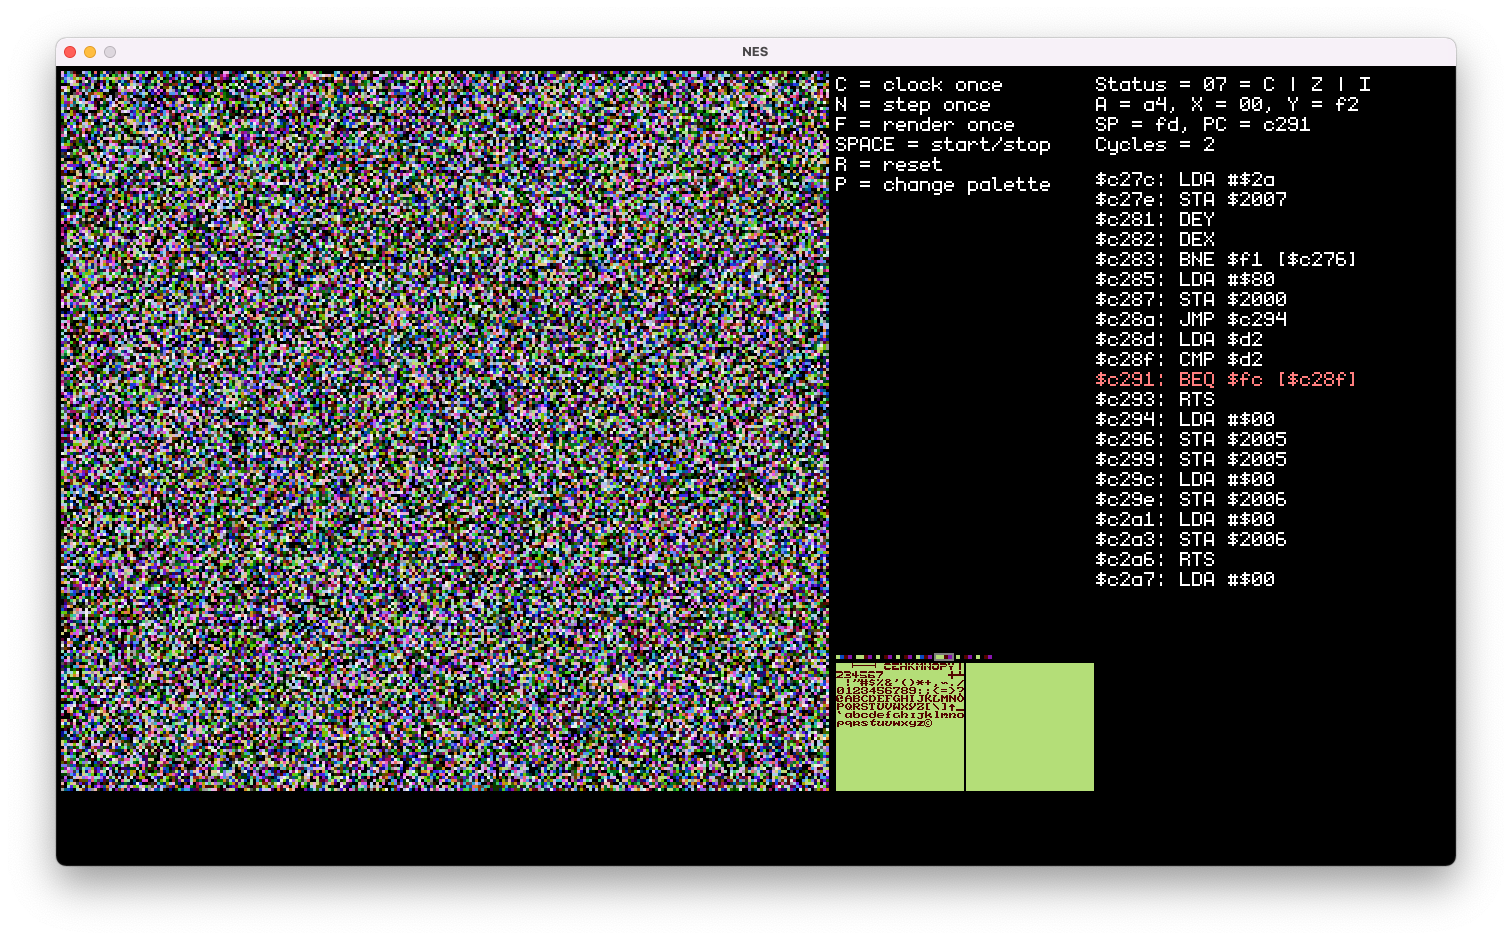
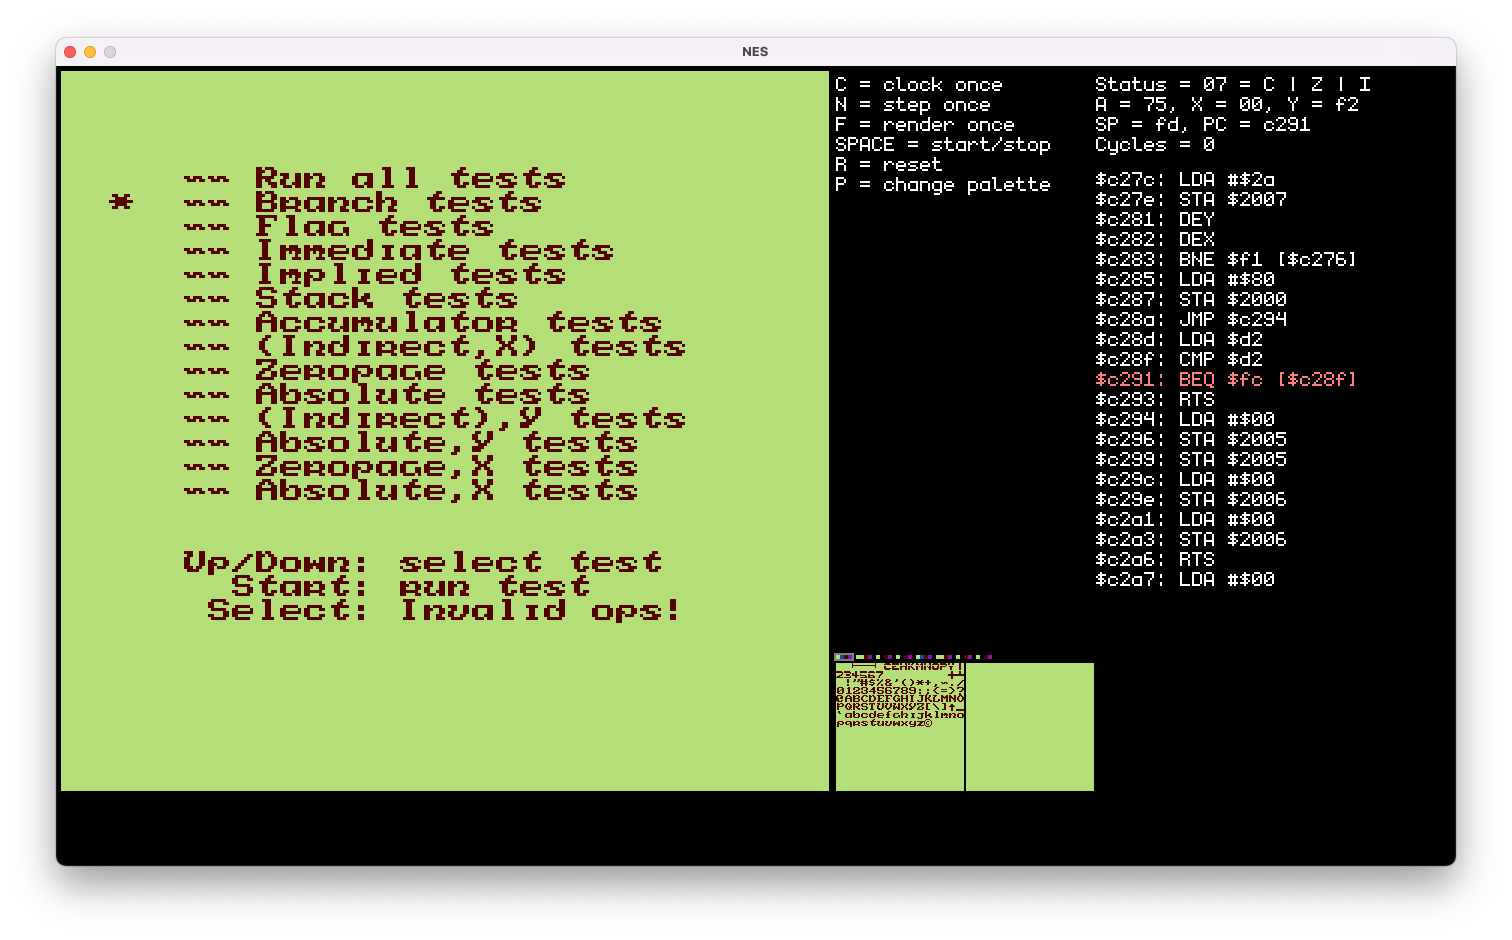
add nametable visualization

diff --git a/src/frontend.cpp b/src/frontend.cpp
@@ -20,6 +20,8 @@ namespace {
 }
 
 NesFrontend::NesFrontend() : font("monogram-bitmap.json"), bus("roms/nestest.nes") {
+    Font::the_font() = font;
+
     if (SDL_Init(SDL_INIT_VIDEO) < 0) {
         panic("could not init SDL");
     }
@@ -94,23 +96,48 @@ bool NesFrontend::update() {
 
     constexpr int GAME_SCALE = 3;
     auto screen = bus.ppu.render_screen();
+    auto pattern0 = bus.ppu.render_pattern_table(0, current_palette);
+    auto pattern1 = bus.ppu.render_pattern_table(1, current_palette);
+
     SDL_Rect dst = {5, 5, screen->w*GAME_SCALE, screen->h*GAME_SCALE};
     SDL_BlitScaled(screen, nullptr, window_surface, &dst);
 
-    auto pattern = bus.ppu.render_pattern_table(0, current_palette);
-    dst = {780, 597, pattern->w, pattern->h};
-    SDL_BlitSurface(pattern, nullptr, window_surface, &dst);
+    auto render_nametable_values = [&]() {
+        for (int y = 0; y < 30; y++) {
+            for (int x = 0; x < 32; x++) {
+                uint8 id = bus.ppu.name_table_mem[0][y * 32 + x];
+                dst = {x * 24 + 5, y * 24 + 5, 24, 24};
 
-    pattern = bus.ppu.render_pattern_table(1, current_palette);
-    dst = {910, 597, pattern->w, pattern->h};
-    SDL_BlitSurface(pattern, nullptr, window_surface, &dst);
+                if (visualization == ScreenVisualization::NametableID) {
+                    char buf[3];
+                    snprintf(buf, 3, "%02X", id);
+                    auto text = Font::the_font().render_text(buf, SDL_Color{255, 255, 255}, 2);
+                    SDL_BlitSurface(text, nullptr, window_surface, &dst);
+                } else {
+                    SDL_Rect src = {(id & 0xf) << 3, ((id >> 4) & 0xf) << 3, 8, 8};
+                    SDL_BlitScaled(visualization == ScreenVisualization::Patterns0 ? pattern0 : pattern1,
+                                   &src, window_surface, &dst);
+                }
+            }
+        }
+    };
 
-    dst = {780+current_palette*20-2, 589-2, pattern->w, pattern->h};
+    if (visualization != ScreenVisualization::Display) {
+        render_nametable_values();
+    }
+
+    dst = {780, 597, pattern0->w, pattern0->h};
+    SDL_BlitSurface(pattern0, nullptr, window_surface, &dst);
+
+    dst = {910, 597, pattern1->w, pattern1->h};
+    SDL_BlitSurface(pattern1, nullptr, window_surface, &dst);
+
+    dst = {780+current_palette*20-2, 589-2, selected_palette_surface->w, selected_palette_surface->h};
     SDL_BlitSurface(selected_palette_surface, nullptr, window_surface, &dst);
 
     for (int i = 0; i < 8; i++) {
         auto palette = bus.ppu.render_palette(i);
-        dst = {780+i*20, 589, pattern->w, pattern->h};
+        dst = {780+i*20, 589, palette->w, palette->h};
         SDL_BlitSurface(palette, nullptr, window_surface, &dst);
     }
 
@@ -131,6 +158,8 @@ bool NesFrontend::update() {
                 bus.reset();
             } else if (event.key.keysym.sym == SDLK_p) {
                 current_palette = (current_palette+1) % 8;
+            } else if (event.key.keysym.sym == SDLK_v) {
+                ++visualization;
             }
 
             if (!full_speed) {

diff --git a/src/ppu.cpp b/src/ppu.cpp
@@ -1,5 +1,6 @@
 #include <ppu.h>
 #include <gfx.h>
+#include <font.h>
 
 extern SDL_Color palette_array[64];
 
@@ -108,6 +109,7 @@ void PPU::cpu_write(uint16 addr, uint8 data) {
 
     case 7:
         ppu_write(combined_address, data);
+//        combined_address += (control.vram_addr_increment ? 32 : 1);
         break;
 
     default:
@@ -139,16 +141,16 @@ uint8 PPU::cpu_read(uint16 addr) {
     case 6:
         break;
 
-    case 7:
+    case 7: {
         // all reads except the palette memory are delayed by one frame
-        if (combined_address > 0x3f00) {
-            data_buffer = ppu_read(combined_address++);
-            return data_buffer;
-        } else {
-            uint8 old = data_buffer;
-            data_buffer = ppu_read(combined_address++);
-            return old;
-        }
+        uint8 data = data_buffer;
+        data_buffer = ppu_read(combined_address);
+        if (combined_address >= 0x3f00)
+            data = data_buffer;
+
+        combined_address += (control.vram_addr_increment ? 32 : 1);
+        return data;
+    }
 
     default:
         return 0;
@@ -219,14 +221,6 @@ void PPU::clock(bool &nmi_requested) {
         if (control.nmi_on_vblank) {
             nmi_requested = true;
         }
-    }
-
-    int x = cycle-1;
-    int y = scanline;
-    if (gfx::in_bounds(screen, x, y)) {
-        SDL_LockSurface(screen);
-        gfx::set_pixel(screen, x, y, palette_array[rand() % 64]);
-        SDL_UnlockSurface(screen);
     }
 
     cycle++;

diff --git a/include/frontend.h b/include/frontend.h
@@ -7,6 +7,18 @@
 constexpr SDL_Color white = {255, 255, 255, 255};
 constexpr SDL_Color red = {255, 127, 127, 255};
 
+enum class ScreenVisualization {
+    Display,
+    NametableID,
+    Patterns0,
+    Patterns1,
+};
+
+ScreenVisualization& operator++(ScreenVisualization &v) {
+    v = static_cast<ScreenVisualization>((static_cast<int>(v) + 1) % 4);
+    return v;
+}
+
 class NesFrontend {
 public:
     SDL_Window *window;
@@ -23,6 +35,7 @@ public:
     int frames = 0;
     float frame_time = 0;
     int current_palette = 0;
+    ScreenVisualization visualization = ScreenVisualization::Display;
 
     NesFrontend();
     ~NesFrontend();

diff --git a/include/ppu.h b/include/ppu.h
@@ -14,8 +14,6 @@
 
 class PPU {
     Cartridge *cartridge;
-    uint8 name_table_mem[2][1024] = {};
-    uint8 palette_mem[32] = {};
 
     union {
         uint8 value = 0;
@@ -71,6 +69,9 @@ class PPU {
     uint8 *ppu_locate(uint16 addr);
 
 public:
+    uint8 name_table_mem[2][1024] = {};
+    uint8 palette_mem[32] = {};
+
     bool finished_frame = false;
 
     explicit PPU(Cartridge *cartridge);

diff --git a/include/font.h b/include/font.h
@@ -4,10 +4,16 @@
 
 #include <map>
 #include <array>
+#include <string>
 #include <string_view>
 
 class Font {
 public:
+    static Font &the_font() {
+        static Font font;
+        return font;
+    }
+
     static constexpr int TEXT_COLS = 5;
     static constexpr int TEXT_ROWS = 12;
 
